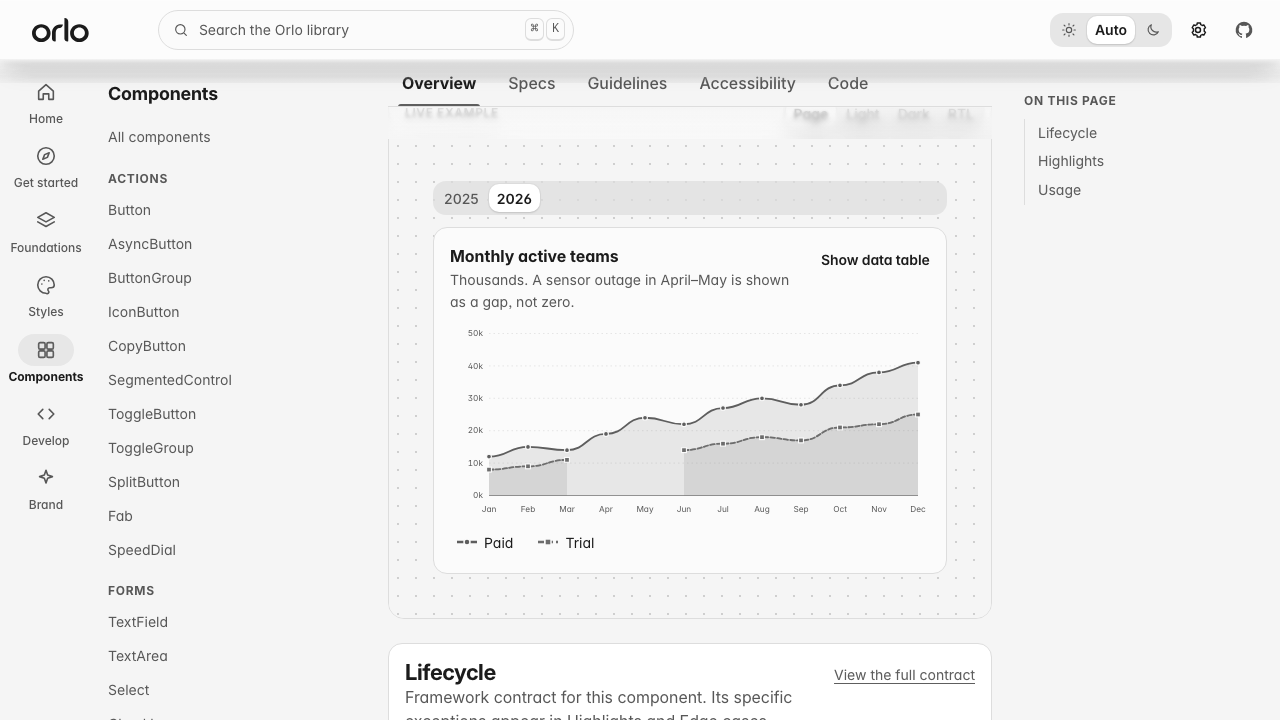
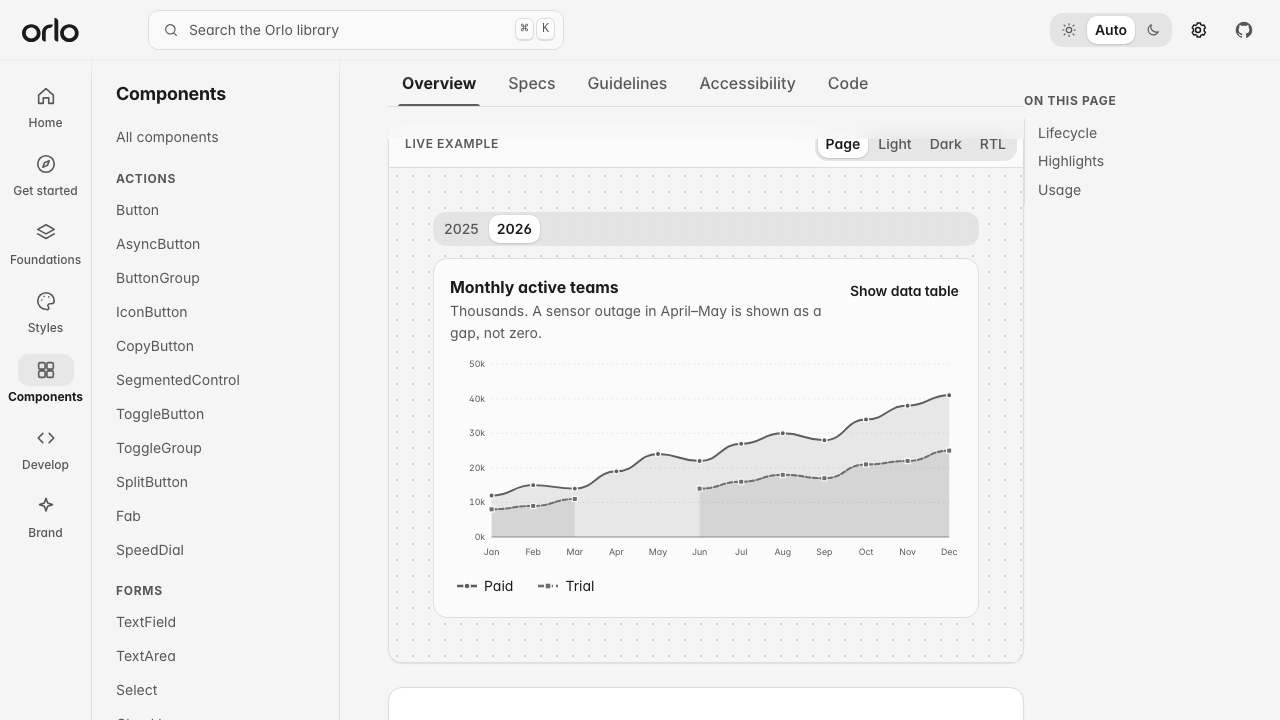
feat(v3): unify docs shell and strengthen switch motion
Rework the shared documentation shell around Orlo tokens so every route inherits consistent surfaces, radii, navigation, stage, card, and pager treatment. Animate Device Lab frame changes with the shared motion contract instead of remounting previews for orientation and device changes.\n\nFix the Switch off state by making its thumb a painted block with an explicit semantic surface and durable disabled treatment. Add browser coverage that proves the off thumb remains visible and usable on desktop and mobile.

diff --git a/apps/docs/src/docs.css b/apps/docs/src/docs.css
@@ -252,13 +252,13 @@ table.keys td:first-child { white-space: nowrap; }
 .mat-backdrop p { position: absolute; inset-inline: 0; inset-block-end: 30%; margin: 0; font-size: 1.6rem; font-weight: 800; opacity: 0.55; white-space: nowrap; }
 .mat-card { position: relative; display: grid; gap: 10px; padding: 18px 20px; border-radius: var(--orlo-radius-xl); border: 1px solid var(--orlo-color-border); max-inline-size: 20rem; box-shadow: var(--orlo-material-depth-shadow, var(--orlo-shadow-3)); }
 /* Device lab */
-.devicelab { display: grid; justify-items: center; gap: 10px; margin-block-start: 20px; }
-.devicelab__frame { position: relative; padding: 12px; border-radius: 34px; background: #1C1B18; box-shadow: var(--orlo-shadow-4); overflow: hidden; transition: inline-size var(--orlo-duration-spatial-default) var(--orlo-ease-spatial-default), block-size var(--orlo-duration-spatial-default) var(--orlo-ease-spatial-default); }
-.devicelab__frame[data-kind="laptop"] { border-radius: 14px; }
-.devicelab__frame iframe { border: 0; transform-origin: top left; border-radius: 22px; background: var(--orlo-color-canvas); display: block; }
-.devicelab__frame[data-kind="laptop"] iframe { border-radius: 4px; }
-.devicelab__safe { position: absolute; inset-inline: 12px; display: grid; place-items: center; font-size: 10px; letter-spacing: 0.08em; text-transform: uppercase; color: #fff; background: repeating-linear-gradient(45deg, rgb(255 0 80 / 0.22) 0 6px, rgb(255 0 80 / 0.1) 6px 12px); pointer-events: none; border-radius: 22px 22px 0 0; }
-.devicelab__safe[style*="inset-block-end"] { border-radius: 0 0 22px 22px; }
+.devicelab { display: grid; justify-items: center; gap: var(--orlo-space-3); margin-block-start: var(--orlo-space-5); }
+.devicelab__frame { position: relative; padding: var(--orlo-space-3); border: 1px solid var(--orlo-color-border-control); border-radius: var(--orlo-radius-2xl); background: var(--orlo-color-fg); box-shadow: var(--orlo-shadow-4); overflow: hidden; }
+.devicelab__frame[data-kind="laptop"] { border-radius: var(--orlo-radius-lg); }
+.devicelab__frame iframe { border: 0; transform-origin: top left; border-radius: var(--orlo-radius-xl); background: var(--orlo-color-canvas); display: block; }
+.devicelab__frame[data-kind="laptop"] iframe { border-radius: var(--orlo-radius-sm); }
+.devicelab__safe { position: absolute; inset-inline: var(--orlo-space-3); display: grid; place-items: center; font-size: var(--orlo-text-xs); letter-spacing: 0.08em; text-transform: uppercase; color: var(--orlo-color-fg-inverse); background: color-mix(in oklab, var(--orlo-color-error) 28%, transparent); pointer-events: none; border-radius: var(--orlo-radius-xl) var(--orlo-radius-xl) 0 0; }
+.devicelab__safe[style*="inset-block-end"] { border-radius: 0 0 var(--orlo-radius-xl) var(--orlo-radius-xl); }
 /* Motion page */
 .token-grid { display: grid; gap: 12px; grid-template-columns: repeat(auto-fill, minmax(min(100%, 14rem), 1fr)); margin-block-end: 12px; }
 .token { display: grid; gap: 8px; padding: 14px !important; }
@@ -302,3 +302,34 @@ table.keys td:first-child { white-space: nowrap; }
 .component-lifecycle li div { display: grid; gap: var(--orlo-space-1); }
 .component-lifecycle li span:not(:first-child) { color: var(--orlo-color-fg-muted); font-size: var(--orlo-text-sm); }
 @media (max-width: 39rem) { .component-lifecycle__head { align-items: flex-start; flex-direction: column; } }
+
+/* ---------- V3 documentation shell: one quiet visual grammar across every route ---------- */
+.topbar { gap: var(--orlo-space-3); padding-inline: var(--orlo-space-4); background: color-mix(in oklab, var(--orlo-color-canvas) 88%, transparent); box-shadow: 0 1px 0 color-mix(in oklab, var(--orlo-color-fg) 6%, transparent); }
+.topbar__logo, .topbar__gh { border-radius: var(--orlo-radius-md); }
+.topbar__logo { margin-inline-start: 0; }
+.search-trigger { border-radius: var(--orlo-radius-md); background: color-mix(in oklab, var(--orlo-color-surface), var(--orlo-color-canvas) 36%); transition: var(--orlo-t-color), var(--orlo-t-shadow); }
+@media (hover: hover) and (pointer: fine) { .topbar__gh:hover, .search-trigger:hover { background: var(--orlo-color-surface-raised); box-shadow: var(--orlo-shadow-1); } }
+.shell__rail { border-inline-end: 1px solid var(--orlo-color-border); padding-block: var(--orlo-space-4); }
+.shell__drawer { border-inline-end: 1px solid var(--orlo-color-border); padding: var(--orlo-space-5) var(--orlo-space-3) var(--orlo-space-8); }
+.rail { gap: var(--orlo-space-2); }
+.rail__item { border-radius: var(--orlo-radius-md); }
+.rail__icon { border-radius: var(--orlo-radius-md); }
+.drawer__nav a { border-radius: var(--orlo-radius-md); }
+.content { gap: clamp(var(--orlo-space-6), 3vw, var(--orlo-space-9)); padding-block: clamp(var(--orlo-space-6), 5vw, var(--orlo-space-10)); }
+.content__inner { max-inline-size: 60rem; }
+.content[data-section="home"] .content__inner, .content__inner:has(> .wide) { max-inline-size: 82rem; }
+.page-header { padding-block-end: var(--orlo-space-5); border-block-end: 1px solid var(--orlo-color-border); }
+.page-header .lead { margin-block-end: 0; }
+.eyebrow { font-size: var(--orlo-text-xs); letter-spacing: 0.09em; text-transform: uppercase; }
+h1:not([class^="orlo-"]) { font-size: clamp(2.2rem, 1.7rem + 2vw, 3.4rem); }
+h2:not([class^="orlo-"]) { margin-block-start: clamp(var(--orlo-space-8), 7vw, var(--orlo-space-10)); }
+.ctabs-wrap { background: color-mix(in oklab, var(--orlo-color-canvas) 94%, transparent); }
+.ctabs a { border-radius: var(--orlo-radius-md) var(--orlo-radius-md) 0 0; }
+.stage, .anatomy, .playground, .component-lifecycle { border-radius: var(--orlo-radius-lg); box-shadow: var(--orlo-shadow-1); }
+.stage__canvas { background-size: var(--orlo-space-4) var(--orlo-space-4); }
+.link-card, .cindex__card { border-radius: var(--orlo-radius-lg); transition: var(--orlo-t-color), var(--orlo-t-shadow), var(--orlo-t-press); }
+@media (hover: hover) and (pointer: fine) { .link-card:hover, .cindex__card:hover { box-shadow: var(--orlo-shadow-3); transform: translateY(-1px); } }
+.pager a { border-radius: var(--orlo-radius-lg); transition: var(--orlo-t-color), var(--orlo-t-shadow); }
+@media (hover: hover) and (pointer: fine) { .pager a:hover { box-shadow: var(--orlo-shadow-1); } }
+.stats { border-radius: var(--orlo-radius-lg); }
+@media (max-width: 899px) { .shell__rail, .shell__drawer { border-inline-end: 0; } .content { padding-inline: var(--orlo-space-4); } }

diff --git a/apps/docs/src/pages/DeviceLab.tsx b/apps/docs/src/pages/DeviceLab.tsx
@@ -1,5 +1,7 @@
 import { useState } from "react";
+import { motion } from "motion/react";
 import { SegmentedControl, Select, Switch, Stack, Badge } from "@orlo/react";
+import { useOrloMotion } from "@orlo/motion";
 import { PageHeader, H2 } from "../kit.tsx";
 
 const devices = {
@@ -18,6 +20,7 @@ export function DeviceLab({ root }: { root: string }) {
   const dev = devices[d];
   const [w, h] = landscape ? [dev.h, dev.w] : [dev.w, dev.h];
   const scale = Math.min(1, 560 / h, 900 / w);
+  const { transition } = useOrloMotion();
   return (
     <div className="wide">
       <PageHeader eyebrow="Develop" title="Device lab" lead="Real Orlo pages in device frames: the pages inside are the actual documentation running at that width, not screenshots." />
@@ -28,11 +31,11 @@ export function DeviceLab({ root }: { root: string }) {
         <Switch label="Show safe areas" checked={safe} onCheckedChange={setSafe} />
       </Stack>
       <div className="devicelab">
-        <div className="devicelab__frame" data-kind={d} style={{ inlineSize: w * scale + 24, blockSize: h * scale + 24 }}>
-          <iframe key={page + w + h} title={`${dev.label} preview of ${page || "home"}`} src={`${root}${page}`} style={{ inlineSize: w, blockSize: h, transform: `scale(${scale})` }} />
+        <motion.div className="devicelab__frame" data-kind={d} layout transition={transition("shared")} style={{ inlineSize: w * scale + 24, blockSize: h * scale + 24 }}>
+          <iframe key={page} title={`${dev.label} preview of ${page || "home"}`} src={`${root}${page}`} style={{ inlineSize: w, blockSize: h, transform: `scale(${scale})` }} />
           {safe && dev.inset.top > 0 && !landscape && <div className="devicelab__safe" style={{ insetBlockStart: 12, blockSize: dev.inset.top * scale }}>safe area</div>}
           {safe && dev.inset.bottom > 0 && !landscape && <div className="devicelab__safe" style={{ insetBlockEnd: 12, blockSize: dev.inset.bottom * scale }}>home indicator</div>}
-        </div>
+        </motion.div>
         <p className="orlo-hint">{w}×{h} CSS px · shown at {Math.round(scale * 100)}% <Badge tone="neutral">{w < 520 ? "Overlays dock as sheets" : w < 900 ? "Navigation in a sheet" : "Rail + drawer"}</Badge></p>
       </div>
       <H2>What changes by width</H2>

diff --git a/packages/react/src/styles.css b/packages/react/src/styles.css
@@ -217,14 +217,15 @@
   .orlo-switch {
     flex: none; position: relative; inline-size: 2.75rem; block-size: 1.625rem; padding: 0.1875rem; margin: 0; cursor: pointer;
     display: flex; justify-content: flex-start; align-items: center;
-    border: 1px solid var(--orlo-color-border-control); border-radius: var(--orlo-radius-full); background: var(--orlo-color-border);
-    transition: background-color var(--orlo-motion-duration-quick), border-color var(--orlo-motion-duration-quick);
+    border: 1px solid var(--orlo-color-border-control); border-radius: var(--orlo-radius-full); background: var(--orlo-color-surface);
+    transition: background-color var(--orlo-duration-effects-fast) var(--orlo-ease-effects-fast), border-color var(--orlo-duration-effects-fast) var(--orlo-ease-effects-fast), box-shadow var(--orlo-duration-effects-fast) var(--orlo-ease-effects-fast);
   }
   .orlo-switch::after { content: ""; position: absolute; inset: -0.5rem; } /* larger touch target without visual bulk */
   .orlo-switch[data-checked] { justify-content: flex-end; background: var(--orlo-color-accent); border-color: var(--orlo-color-accent); }
-  .orlo-switch__thumb { inline-size: 1.125rem; block-size: 1.125rem; border-radius: 50%; background: var(--orlo-color-surface-raised); box-shadow: 0 1px 2px rgb(0 0 0 / 0.25); }
+  .orlo-switch__thumb { display: block; flex: none; inline-size: 1.125rem; block-size: 1.125rem; border-radius: var(--orlo-radius-full); background: var(--orlo-color-fg-muted); box-shadow: var(--orlo-shadow-1); }
   .orlo-switch[data-checked] .orlo-switch__thumb { background: var(--orlo-color-accent-fg); }
-  .orlo-switch:disabled { opacity: 0.5; cursor: not-allowed; }
+  .orlo-switch:disabled { opacity: 1; cursor: not-allowed; border-color: var(--orlo-color-border); background: var(--orlo-color-surface-raised); }
+  .orlo-switch:disabled .orlo-switch__thumb { background: var(--orlo-color-border-control); box-shadow: none; }
   .orlo-switch__text { display: grid; gap: 0.1rem; padding-block-start: 0.125rem; }
   .orlo-switch__text label { cursor: pointer; }
 

diff --git a/e2e/docs.spec.ts b/e2e/docs.spec.ts
@@ -96,6 +96,20 @@ test("theme toggle switches to dark without reload", async ({ page, isMobile }) 
   expect(bg).toBe("rgb(18, 17, 16)");
 });
 
+test("off switch keeps a visible thumb and toggles cleanly", async ({ page }) => {
+  await page.goto("components/switch/");
+  const sw = page.locator(".stage").first().getByRole("switch", { name: "Wi-Fi" });
+  await expect(sw).toHaveAttribute("aria-checked", "true");
+  await sw.click();
+  await expect(sw).toHaveAttribute("aria-checked", "false");
+  const thumb = sw.locator(".orlo-switch__thumb");
+  await expect(thumb).toBeVisible();
+  const box = await thumb.boundingBox();
+  expect(box?.width).toBeGreaterThanOrEqual(16);
+  expect(box?.height).toBeGreaterThanOrEqual(16);
+  expect(await thumb.evaluate((el) => getComputedStyle(el).backgroundColor)).not.toBe("rgba(0, 0, 0, 0)");
+});
+
 test("mobile navigation opens as a sheet", async ({ page, isMobile }) => {
   test.skip(!isMobile, "mobile only");
   await page.goto("components/");
